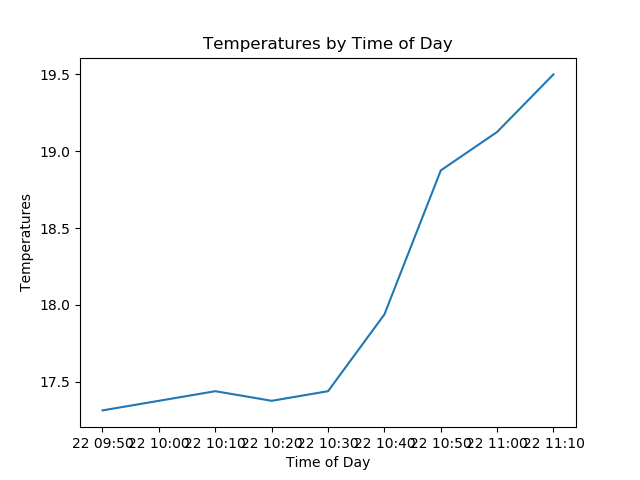
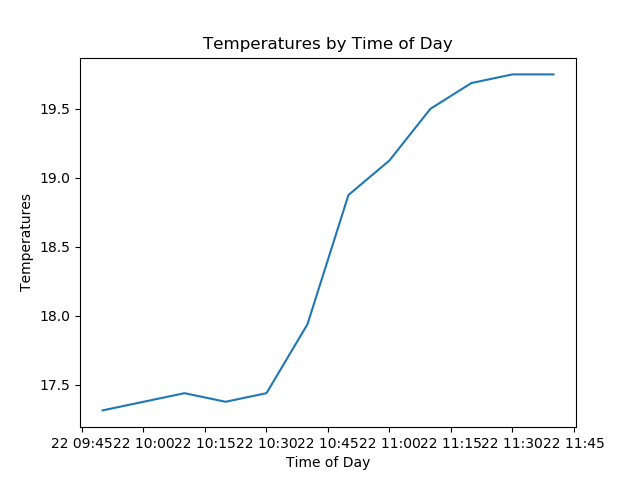
added graph to html

diff --git a/templates/base.html b/templates/base.html
@@ -10,7 +10,7 @@
 
 <body>
     <h1>At <p id="time-log"></p> the temperature is <p id="temp-log"></p> celsius</h1>
-
+    <img src="../static/temp.png">
    
 </body>
 

diff --git a/static/style.css b/static/style.css
@@ -2,3 +2,7 @@ body {
     align-items: center;
     text-align: center;
 }
+
+/* body > img {
+    width: 85%;
+} */

diff --git a/model/databasetemp.py b/model/databasetemp.py
@@ -20,6 +20,7 @@ def add_temp(temp, timestamp):
     cur.execute(query, values)
     conn.commit()
 
+
 def get_time_of_most_recent_temp():
     query = """
     SELECT timestamp FROM 
@@ -30,6 +31,45 @@ def get_time_of_most_recent_temp():
 
     cur.execute(query)
     return cur.fetchall()[0][0]
+
+
+def get_temps():
+    query = """
+    SELECT 
+        temp
+    FROM 
+        temp
+    """
+    cur.execute(query)
+    return cur.fetchall()
+
+
+def get_timestamps():
+    query = """
+    SELECT 
+        timestamp
+    FROM 
+        temp
+    """
+    cur.execute(query)
+    return cur.fetchall()
+
+def temp_list():
+    new_list = []
+    temps_list = get_temps()
+
+    for temps in temps_list:
+        new_list.append(float(temps[0]))
+    return new_list
+
+
+def timestamp_list():
+    new_list = []
+    timestamps = get_timestamps()
+
+    for times in timestamps:
+        new_list.append(times[0].strftime("%x") + " " + times[0].strftime("%X"))
+    return new_list
 
 
 temp = sensor.get_temperature()

diff --git a/testplotting.py b/testplotting.py
@@ -1,20 +1,21 @@
-from testdb import get_temps, get_timestamps
+from model.databasetemp import get_temps, get_timestamps
 import matplotlib as mpl 
 mpl.use('Agg')
 from matplotlib import pyplot as plt
 
-fig = plt.figure()
-dev_x = get_temps()
+def make_plot():
+    fig = plt.figure()
+    dev_x = get_temps()
 
-dev_y = get_timestamps()
+    dev_y = get_timestamps()
 
-plt.plot(dev_y, dev_x)
+    plt.plot(dev_y, dev_x)
 
-plt.title('Temperatures by Time of Day')
-plt.ylabel('Temperatures')
-plt.xlabel('Time of Day')
+    plt.title('Temperatures by Time of Day')
+    plt.ylabel('Temperatures')
+    plt.xlabel('Time of Day')
 
-plt.show()
+    plt.show()
 
-fig.savefig('temp.png')
+    fig.savefig('static/temp.png')
 

diff --git a/app.py b/app.py
@@ -5,8 +5,8 @@ from time import sleep
 from threading import Thread, Event
 from datetime import date, datetime
 from w1thermsensor import W1ThermSensor
-from model.databasetemp import add_temp, get_time_of_most_recent_temp
-
+from model.databasetemp import add_temp, get_time_of_most_recent_temp, get_temps, get_timestamps
+from testplotting import make_plot
 
 
 app = Flask(__name__)
@@ -39,6 +39,7 @@ def send_time_and_temperature():
         
         if (timeNow.minute % 10 == 0) and (timeNow.minute != get_time_of_most_recent_temp().minute):
             save_temp_to_database() 
+            make_plot()
         socketio.sleep(0.5)
          
 

diff --git a/testdb.py b/testdb.py
@@ -44,7 +44,7 @@ def timestamp_list():
     timestamps = get_timestamps()
 
     for times in timestamps:
-        new_list.append(times[0].strftime("%c"))
+        new_list.append(times[0].strftime("%x") + " " + times[0].strftime("%X"))
     return new_list
 
 print(temp_list())
